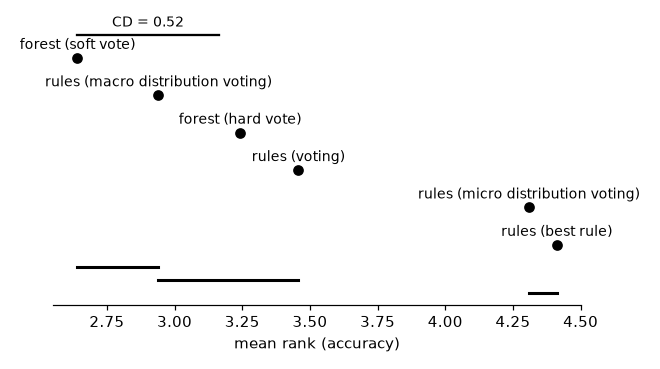
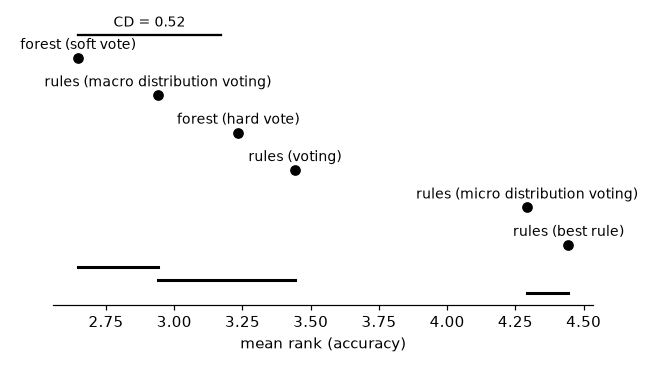
Base vs. composite demo: kropt dropped
Its class (depth of win in a chess endgame) depends on relations between
the pieces that the forests hardly learn, and a forest of unlimited depth
did not finish within hours. Report regenerated from the cache.

diff --git a/demos/base_vs_composite.py b/demos/base_vs_composite.py
@@ -76,7 +76,7 @@ MAX_INTERVALS = 8
 FIT_TIMEOUT = 600.0
 #: the datasets whose forests of unlimited depth have too many leaves for `FIT_TIMEOUT`, with a longer cap
 #: per fit (turning a forest into a rule set measures every leaf on the training data)
-LONG_DATASETS = ["kropt", "letter", "heloc"]
+LONG_DATASETS = ["letter", "heloc"]
 LONG_FIT_TIMEOUT = 3600.0
 
 #: name -> the trees' `max_depth`
@@ -97,7 +97,7 @@ QUICK_FOLDS = 3
 FULL_DATASETS = ["balance-scale", "cmc", "dna", "hayes-roth", "iris", "splice", "wine", "car", "lymph",
                  "vehicle", "anneal", "glass", "solar-flare", "ecoli", "segment", "zoo", "led24", "yeast",
                  "optdigits", "texture", "vowel", "soybean", "primary-tumor", "audiology"]
-LARGE_DATASETS = ["kropt", "letter"]
+LARGE_DATASETS = ["letter"]
 BINARY_DATASETS = ["SPECT", "Titanic", "banknote-authentication", "blood-transfusion-service-center",
                    "breast-cancer", "breast-w", "churn", "climate-model-simulation-crashes", "colic",
                    "compas-two-years", "credit-approval", "credit-g", "cylinder-bands", "diabetes",

diff --git a/demos/base_vs_composite_report.md b/demos/base_vs_composite_report.md
@@ -26,46 +26,44 @@ each tree's bootstrap sample (and ties are broken differently); the
 agreement columns give the share of test examples on which each pair
 predicts the same class.
 
-Multi-class datasets, with their numbers of classes: `balance-scale` (3), `cmc` (3), `dna` (3), `hayes-roth` (3), `iris` (3), `splice` (3), `wine` (3), `car` (4), `lymph` (4), `vehicle` (4), `anneal` (5), `glass` (6), `solar-flare` (6), `segment` (7), `zoo` (7), `ecoli` (8), `led24` (10), `yeast` (10), `optdigits` (10), `texture` (11), `vowel` (11), `kropt` (18), `soybean` (19), `primary-tumor` (21), `audiology` (24), `letter` (26). Two-class datasets: `SPECT`, `Titanic`, `banknote-authentication`, `blood-transfusion-service-center`, `breast-cancer`, `breast-w`, `churn`, `climate-model-simulation-crashes`, `colic`, `compas-two-years`, `credit-approval`, `credit-g`, `cylinder-bands`, `diabetes`, `dresses-sales`, `heart-c`, `heart-h`, `heart-statlog`, `heloc`, `hepatitis`, `ilpd`, `ionosphere`, `kc1`, `kc2`, `kr-vs-kp`, `mofn-3-7-10`, `molecular-biology_promoters`, `monks-problems-1`, `monks-problems-2`, `monks-problems-3`, `mushroom`, `ozone-level-8hr`, `pc1`, `pc3`, `pc4`, `phoneme`, `qsar-biodeg`, `sick`, `sonar`, `spambase`, `tic-tac-toe`, `vote`, `wdbc`, `wilt`. Protocol:
+Multi-class datasets, with their numbers of classes: `balance-scale` (3), `cmc` (3), `dna` (3), `hayes-roth` (3), `iris` (3), `splice` (3), `wine` (3), `car` (4), `lymph` (4), `vehicle` (4), `anneal` (5), `glass` (6), `solar-flare` (6), `segment` (7), `zoo` (7), `ecoli` (8), `led24` (10), `yeast` (10), `optdigits` (10), `texture` (11), `vowel` (11), `soybean` (19), `primary-tumor` (21), `audiology` (24), `letter` (26). Two-class datasets: `SPECT`, `Titanic`, `banknote-authentication`, `blood-transfusion-service-center`, `breast-cancer`, `breast-w`, `churn`, `climate-model-simulation-crashes`, `colic`, `compas-two-years`, `credit-approval`, `credit-g`, `cylinder-bands`, `diabetes`, `dresses-sales`, `heart-c`, `heart-h`, `heart-statlog`, `heloc`, `hepatitis`, `ilpd`, `ionosphere`, `kc1`, `kc2`, `kr-vs-kp`, `mofn-3-7-10`, `molecular-biology_promoters`, `monks-problems-1`, `monks-problems-2`, `monks-problems-3`, `mushroom`, `ozone-level-8hr`, `pc1`, `pc3`, `pc4`, `phoneme`, `qsar-biodeg`, `sick`, `sonar`, `spambase`, `tic-tac-toe`, `vote`, `wdbc`, `wilt`. Protocol:
 10-fold stratified cross-validation, one `DataSpec` per training fold
 (`TreeDiscretizer(max_intervals=8)`), the forest trained on its Boolean
 features. On data with missing values, the equivalences hold only in part:
 a missing value satisfies neither a feature nor its negation, whereas a tree
 takes it as a false feature, so that an example with a missing value may be
 covered by no leaf of a tree. Each fit is capped at 600s (3600s for
-`kropt`, `letter`, `heloc`).
-
-Left out, as a fold failed (the whole cross-validation of that forest is then counted as failed): `kropt` (unlimited depth: timeout).
+`letter`, `heloc`).
 
 ## All datasets
 
-The 70 datasets, multi-class and two-class together, sorted by mean rank (accuracy rank across datasets). Agreement: the share of test examples on which a forest vote and its equivalent combiner predict the same class.
+The 69 datasets, multi-class and two-class together, sorted by mean rank (accuracy rank across datasets). Agreement: the share of test examples on which a forest vote and its equivalent combiner predict the same class.
 
 ### Depth 4
 
-Rules (leaves) per forest: 1307.8, conditions: 5005.3.
+Rules (leaves) per forest: 1303.6, conditions: 4985.2.
 
 | combination | accuracy | mean rank | agreement |
 |---|--:|--:|--:|
-| forest (soft vote) | 82.10% | 2.36 | 98.44% with macro distribution voting |
-| rules (macro distribution voting) | 81.73% | 2.85 |  |
-| forest (hard vote) | 80.93% | 3.37 | 99.07% with voting |
-| rules (voting) | 80.63% | 3.72 |  |
-| rules (best rule) | 80.48% | 3.81 |  |
-| rules (micro distribution voting) | 79.51% | 4.89 |  |
+| forest (soft vote) | 82.88% | 2.37 | 98.42% with macro distribution voting |
+| rules (macro distribution voting) | 82.50% | 2.85 |  |
+| forest (hard vote) | 81.72% | 3.36 | 99.06% with voting |
+| rules (voting) | 81.42% | 3.70 |  |
+| rules (best rule) | 81.10% | 3.85 |  |
+| rules (micro distribution voting) | 80.33% | 4.87 |  |
 
 ### Depth 8
 
-Rules (leaves) per forest: 6718.9, conditions: 47267.8.
+Rules (leaves) per forest: 6507.6, conditions: 45528.7.
 
 | combination | accuracy | mean rank | agreement |
 |---|--:|--:|--:|
-| forest (soft vote) | 85.34% | 2.43 | 97.86% with macro distribution voting |
-| rules (macro distribution voting) | 85.04% | 2.89 |  |
-| forest (hard vote) | 85.01% | 3.25 | 98.85% with voting |
-| rules (voting) | 84.66% | 3.35 |  |
-| rules (micro distribution voting) | 83.48% | 4.44 |  |
-| rules (best rule) | 83.25% | 4.64 |  |
+| forest (soft vote) | 85.94% | 2.43 | 97.85% with macro distribution voting |
+| rules (macro distribution voting) | 85.63% | 2.89 |  |
+| forest (hard vote) | 85.69% | 3.24 | 98.84% with voting |
+| rules (voting) | 85.33% | 3.33 |  |
+| rules (micro distribution voting) | 84.26% | 4.41 |  |
+| rules (best rule) | 83.68% | 4.70 |  |
 
 ### Unlimited depth
 
@@ -86,14 +84,14 @@ Each combination's mean rank, ranked within each depth on each dataset, and its 
 
 | combination | accuracy | mean rank |
 |---|--:|--:|
-| forest (soft vote) | 84.54% | 2.64 |
-| rules (macro distribution voting) | 84.17% | 2.94 |
-| forest (hard vote) | 84.03% | 3.24 |
-| rules (voting) | 83.64% | 3.46 |
-| rules (micro distribution voting) | 82.83% | 4.31 |
-| rules (best rule) | 82.52% | 4.41 |
+| forest (soft vote) | 85.01% | 2.65 |
+| rules (macro distribution voting) | 84.63% | 2.94 |
+| forest (hard vote) | 84.53% | 3.23 |
+| rules (voting) | 84.13% | 3.44 |
+| rules (micro distribution voting) | 83.38% | 4.29 |
+| rules (best rule) | 82.87% | 4.44 |
 
-Friedman test over the 209 (dataset, depth) pairs: p = 3e-34 (6 combinations). Nemenyi critical difference at 5%: 0.52. The pairs of one dataset aren't independent of each other, so the test is on the optimistic side.
+Friedman test over the 207 (dataset, depth) pairs: p = 2.4e-34 (6 combinations). Nemenyi critical difference at 5%: 0.52. The pairs of one dataset aren't independent of each other, so the test is on the optimistic side.
 
 ![critical-difference diagram, all](base_vs_composite_plots/base_vs_composite_cd_all.png)
 
@@ -101,24 +99,24 @@ Friedman test over the 209 (dataset, depth) pairs: p = 3e-34 (6 combinations). N
 
 Per (dataset, depth) pair, the accuracy of a combination minus that of the forest (soft vote), in percentage points (negative: the combination is worse), averaged over the pairs of datasets with the given numbers of classes (their count in parentheses), and Spearman's rank correlation of the difference with the number of classes.
 
-| combination | 2 (132) | 3-5 (33) | 6-9 (15) | 10-26 (29) | correlation |
+| combination | 2 (132) | 3-5 (33) | 6-9 (15) | 10-26 (27) | correlation |
 |---|--:|--:|--:|--:|--:|
-| forest (hard vote) | -0.17 | -0.20 | -0.60 | -2.33 | -0.26 (p = 0.00013) |
-| rules (best rule) | -0.83 | -3.02 | -5.63 | -4.46 | -0.42 (p = 2.3e-10) |
-| rules (voting) | -0.61 | -0.55 | -0.65 | -2.80 | -0.26 (p = 0.00016) |
-| rules (micro distribution voting) | -1.21 | -1.43 | -1.47 | -4.40 | -0.25 (p = 0.00027) |
-| rules (macro distribution voting) | -0.39 | -0.31 | -0.21 | -0.49 | -0.08 (p = 0.24) |
+| forest (hard vote) | -0.17 | -0.20 | -0.60 | -2.23 | -0.24 (p = 0.00051) |
+| rules (best rule) | -0.83 | -3.02 | -5.63 | -5.51 | -0.46 (p = 2.2e-12) |
+| rules (voting) | -0.61 | -0.55 | -0.65 | -2.73 | -0.24 (p = 0.00054) |
+| rules (micro distribution voting) | -1.21 | -1.43 | -1.47 | -4.00 | -0.23 (p = 0.00093) |
+| rules (macro distribution voting) | -0.39 | -0.31 | -0.21 | -0.51 | -0.07 (p = 0.29) |
 
 Mean rank, ranked within each depth on each dataset, on the datasets with two classes and on those with more:
 
 | combination | two classes | more classes |
 |---|--:|--:|
-| forest (soft vote) | 2.82 | 2.34 |
-| forest (hard vote) | 3.17 | 3.36 |
-| rules (best rule) | 4.14 | 4.88 |
-| rules (voting) | 3.40 | 3.56 |
-| rules (micro distribution voting) | 4.38 | 4.18 |
-| rules (macro distribution voting) | 3.09 | 2.68 |
+| forest (soft vote) | 2.82 | 2.35 |
+| forest (hard vote) | 3.17 | 3.35 |
+| rules (best rule) | 4.14 | 4.99 |
+| rules (voting) | 3.40 | 3.52 |
+| rules (micro distribution voting) | 4.38 | 4.13 |
+| rules (macro distribution voting) | 3.09 | 2.67 |
 
 ## Per dataset (mean across folds)
 
@@ -754,24 +752,6 @@ Mean rank, ranked within each depth on each dataset, on the datasets with two cl
 | kr-vs-kp | unlimited depth:rules (macro distribution voting) | 99.28% | 20548.3 |
 | kr-vs-kp | unlimited depth:rules (micro distribution voting) | 98.53% | 20548.3 |
 | kr-vs-kp | unlimited depth:rules (voting) | 99.37% | 20548.3 |
-| kropt | depth 4:forest (hard vote) | 26.46% | 1598.3 |
-| kropt | depth 4:forest (soft vote) | 28.27% | 1598.3 |
-| kropt | depth 4:rules (best rule) | 37.76% | 1598.3 |
-| kropt | depth 4:rules (macro distribution voting) | 28.26% | 1598.3 |
-| kropt | depth 4:rules (micro distribution voting) | 23.30% | 1598.3 |
-| kropt | depth 4:rules (voting) | 26.29% | 1598.3 |
-| kropt | depth 8:forest (hard vote) | 38.56% | 21297.7 |
-| kropt | depth 8:forest (soft vote) | 44.15% | 21297.7 |
-| kropt | depth 8:rules (best rule) | 53.84% | 21297.7 |
-| kropt | depth 8:rules (macro distribution voting) | 43.84% | 21297.7 |
-| kropt | depth 8:rules (micro distribution voting) | 29.38% | 21297.7 |
-| kropt | depth 8:rules (voting) | 38.48% | 21297.7 |
-| kropt | unlimited depth:forest (hard vote) | n/a | n/a |
-| kropt | unlimited depth:forest (soft vote) | n/a | n/a |
-| kropt | unlimited depth:rules (best rule) | n/a | n/a |
-| kropt | unlimited depth:rules (macro distribution voting) | n/a | n/a |
-| kropt | unlimited depth:rules (micro distribution voting) | n/a | n/a |
-| kropt | unlimited depth:rules (voting) | n/a | n/a |
 | led24 | depth 4:forest (hard vote) | 67.62% | 1600.0 |
 | led24 | depth 4:forest (soft vote) | 72.34% | 1600.0 |
 | led24 | depth 4:rules (best rule) | 69.53% | 1600.0 |
